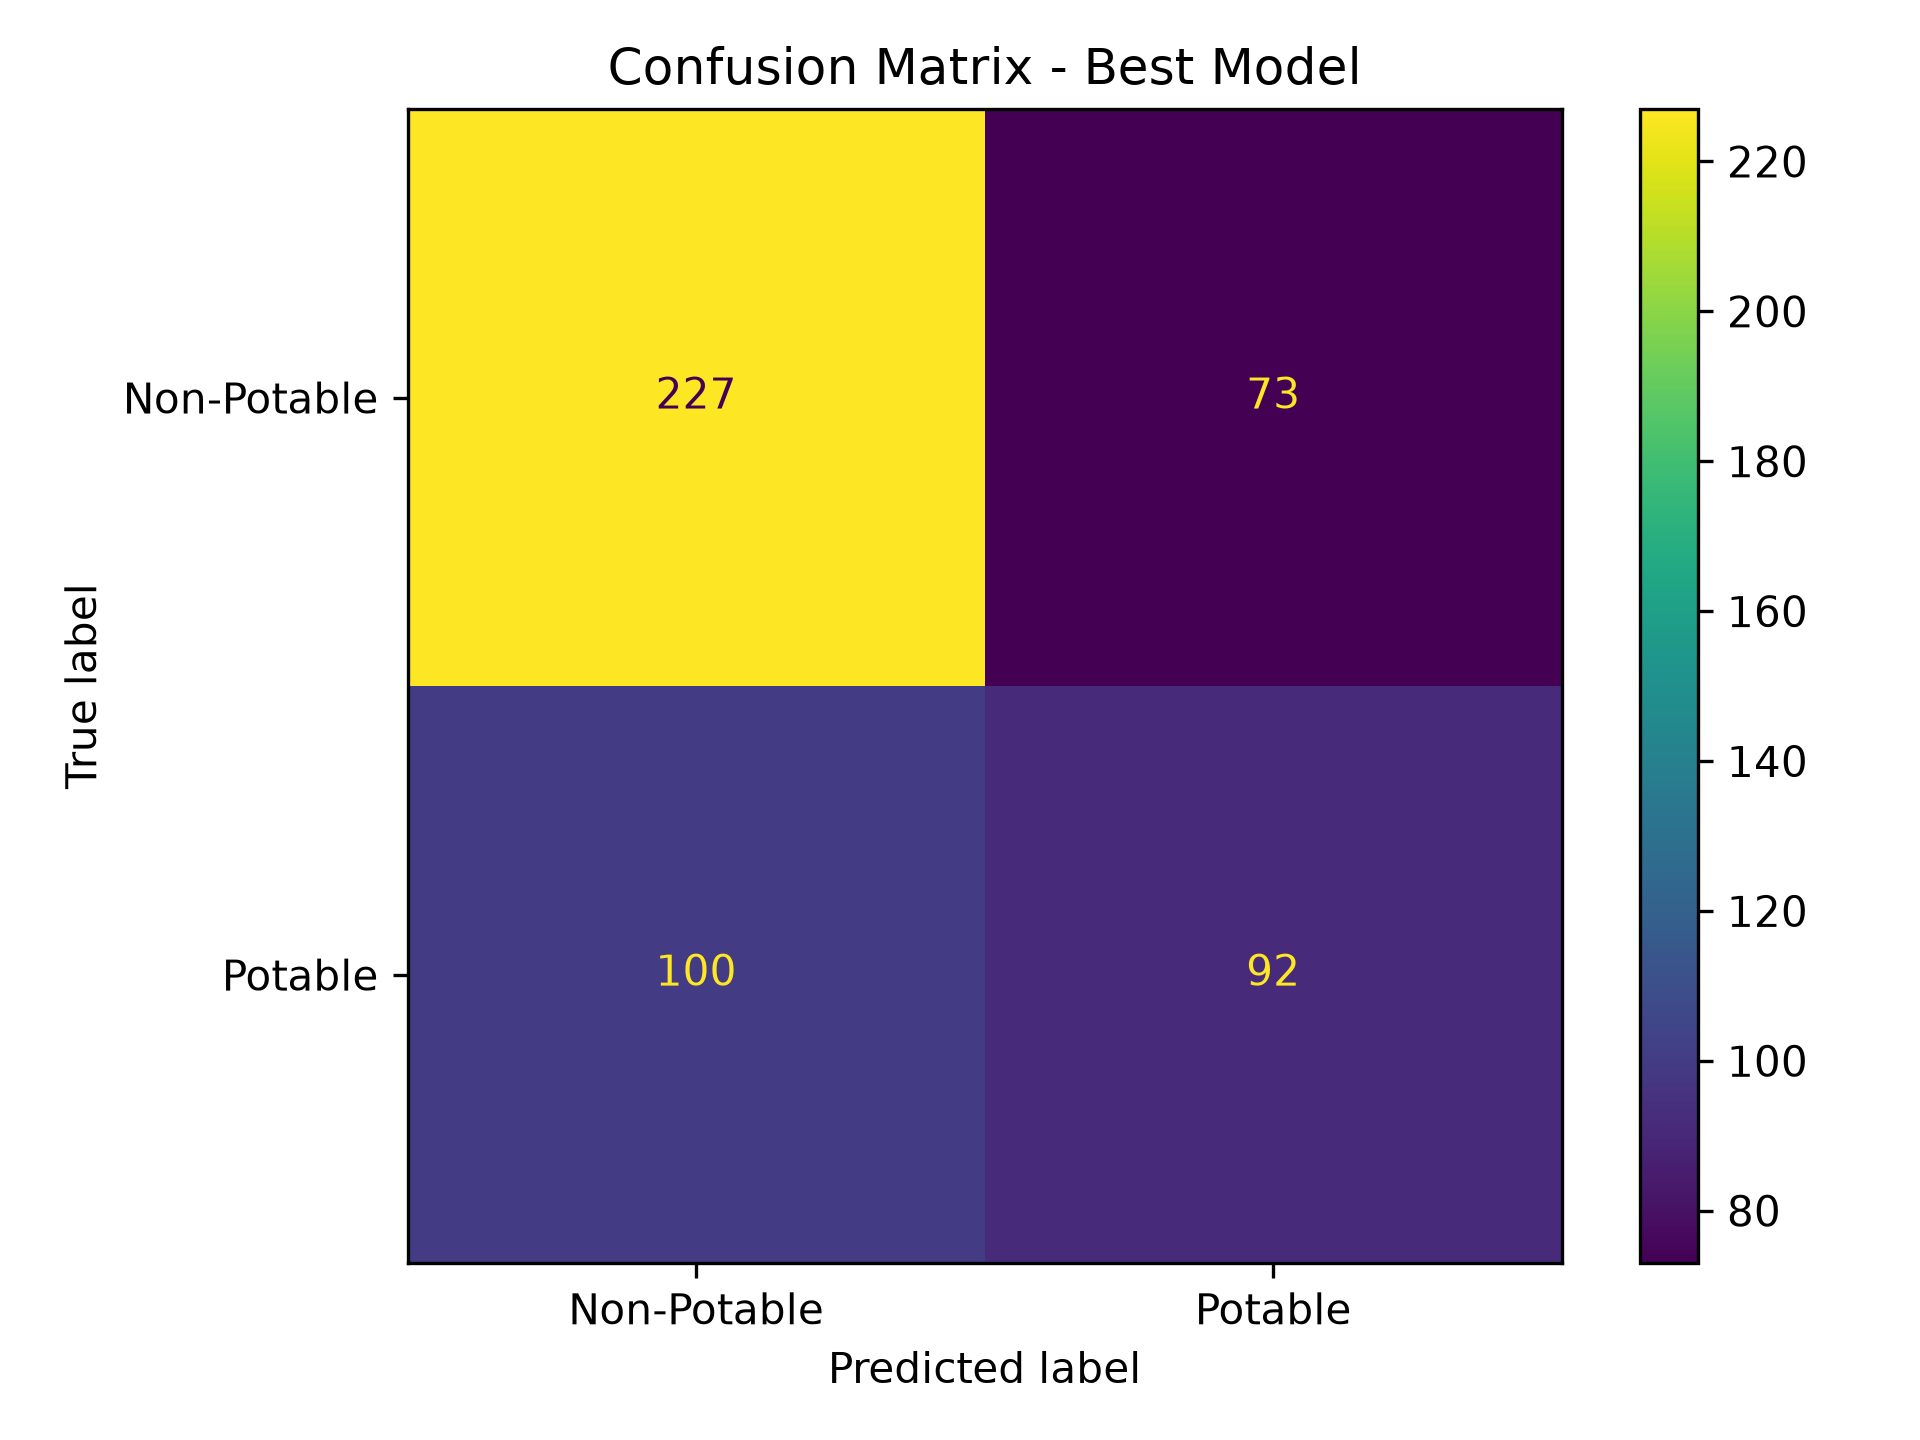
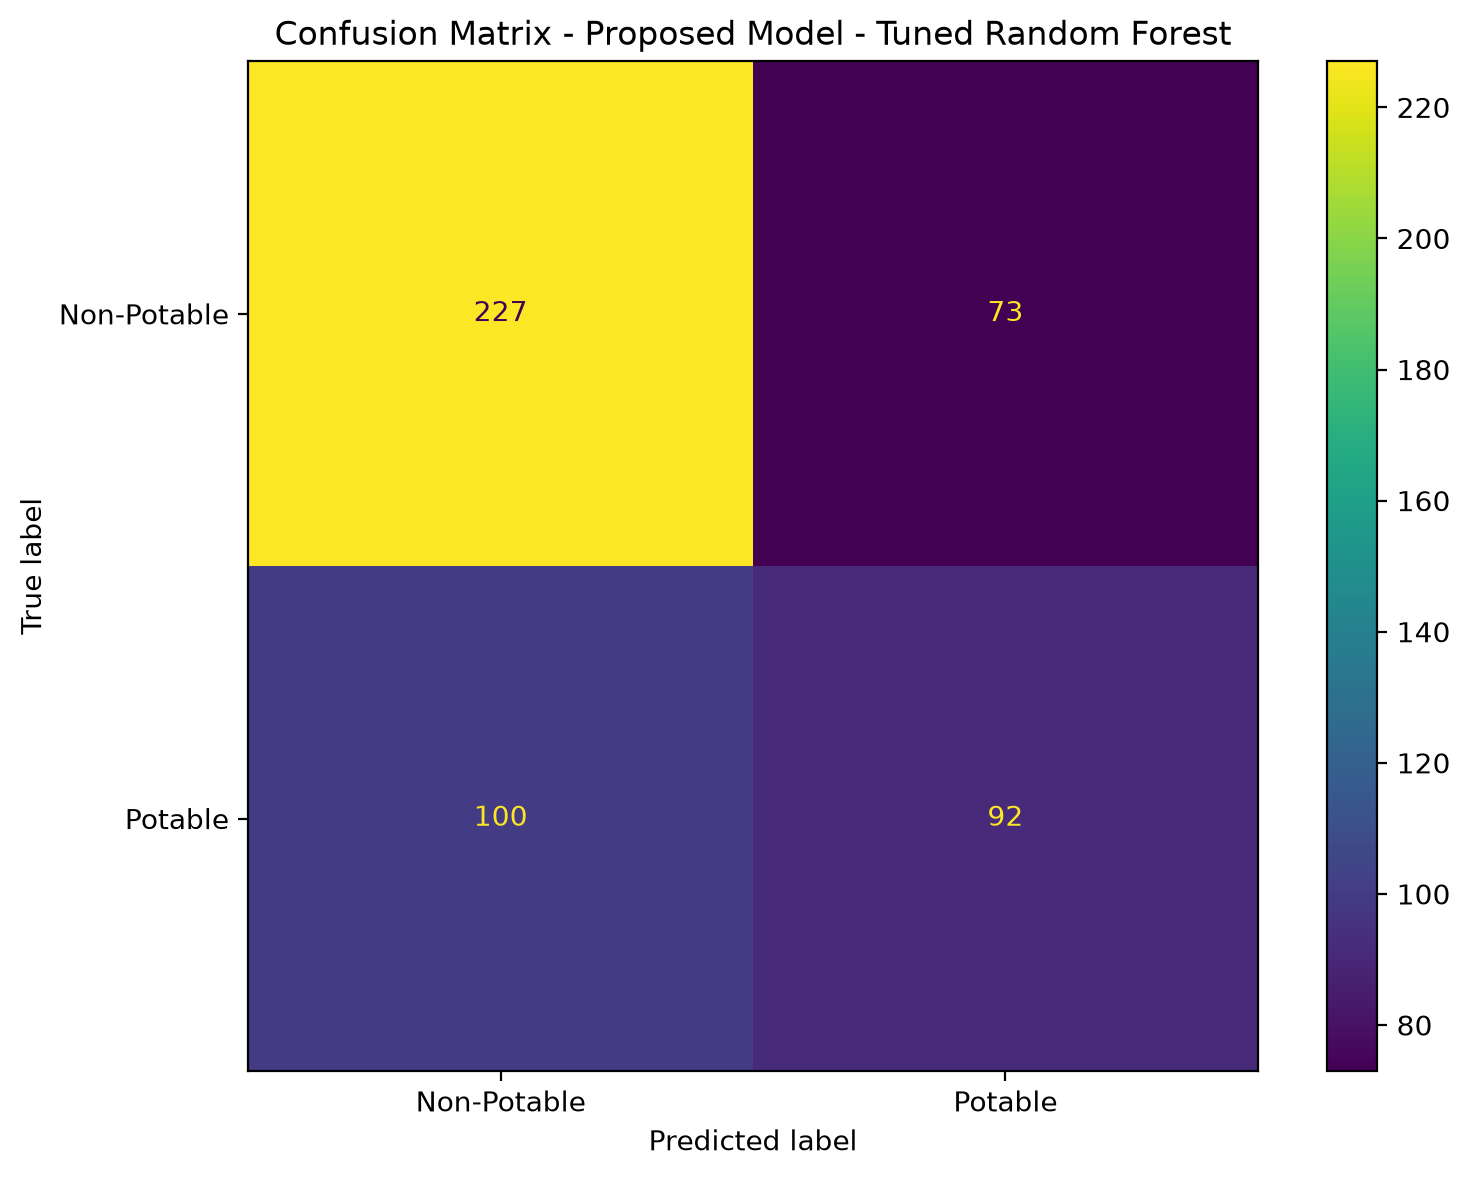
Finalize tuned random forest model evaluation

diff --git a/src/train_models.py b/src/train_models.py
@@ -576,6 +576,93 @@ cm_df.to_csv(
     )
 )
 
+# ============================================================
+# Save Final Confusion Matrix Plot
+# ============================================================
+
+import matplotlib.pyplot as plt
+from sklearn.metrics import ConfusionMatrixDisplay, roc_curve
+
+cm_display = ConfusionMatrixDisplay(
+    confusion_matrix=cm,
+    display_labels=["Non-Potable", "Potable"]
+)
+
+fig, ax = plt.subplots(figsize=(8, 6))
+cm_display.plot(ax=ax)
+
+ax.set_title(
+    f"Confusion Matrix - {best_model_name}"
+)
+
+fig.tight_layout()
+
+fig.savefig(
+    os.path.join(
+        OUTPUT_DIR,
+        "confusion_matrix.png"
+    ),
+    dpi=200,
+    bbox_inches="tight"
+)
+
+plt.close(fig)
+
+
+# ============================================================
+# Save Final ROC Curve
+# ============================================================
+
+if hasattr(best_model, "predict_proba"):
+
+    test_probabilities = best_model.predict_proba(X_test)[:, 1]
+
+    fpr, tpr, _ = roc_curve(
+        y_test,
+        test_probabilities
+    )
+
+    fig, ax = plt.subplots(figsize=(8, 6))
+
+    ax.plot(
+        fpr,
+        tpr,
+        label=f"ROC-AUC = {test_results['ROC-AUC']:.4f}"
+    )
+
+    ax.plot(
+        [0, 1],
+        [0, 1],
+        linestyle="--"
+    )
+
+    ax.set_xlabel("False Positive Rate")
+    ax.set_ylabel("True Positive Rate")
+
+    ax.set_title(
+        f"ROC Curve - {best_model_name}"
+    )
+
+    ax.legend(loc="lower right")
+
+    fig.tight_layout()
+
+    fig.savefig(
+        os.path.join(
+            OUTPUT_DIR,
+            "roc_curve.png"
+        ),
+        dpi=200,
+        bbox_inches="tight"
+    )
+
+    plt.close(fig)
+
+print("\nFinal graphs saved:")
+print(os.path.join(OUTPUT_DIR, "confusion_matrix.png"))
+print(os.path.join(OUTPUT_DIR, "roc_curve.png"))
+
+
 
 print("\nFinal metrics saved to:")
 print(final_metrics_path)

diff --git a/app.py b/app.py
@@ -225,7 +225,7 @@ elif page == "Model Performance":
     st.header("Final Model Evaluation")
 
     st.write(
-        "The Support Vector Machine model was selected as the final "
+        "The Hyperparameter-Tuned Random Forest model was selected as the final "
         "model based on validation ROC-AUC."
     )
 
@@ -531,4 +531,5 @@ st.caption(
     "Water Potability Prediction Using Machine Learning | "
     "Random Forest and SVM based classification project"
 )
+
 
